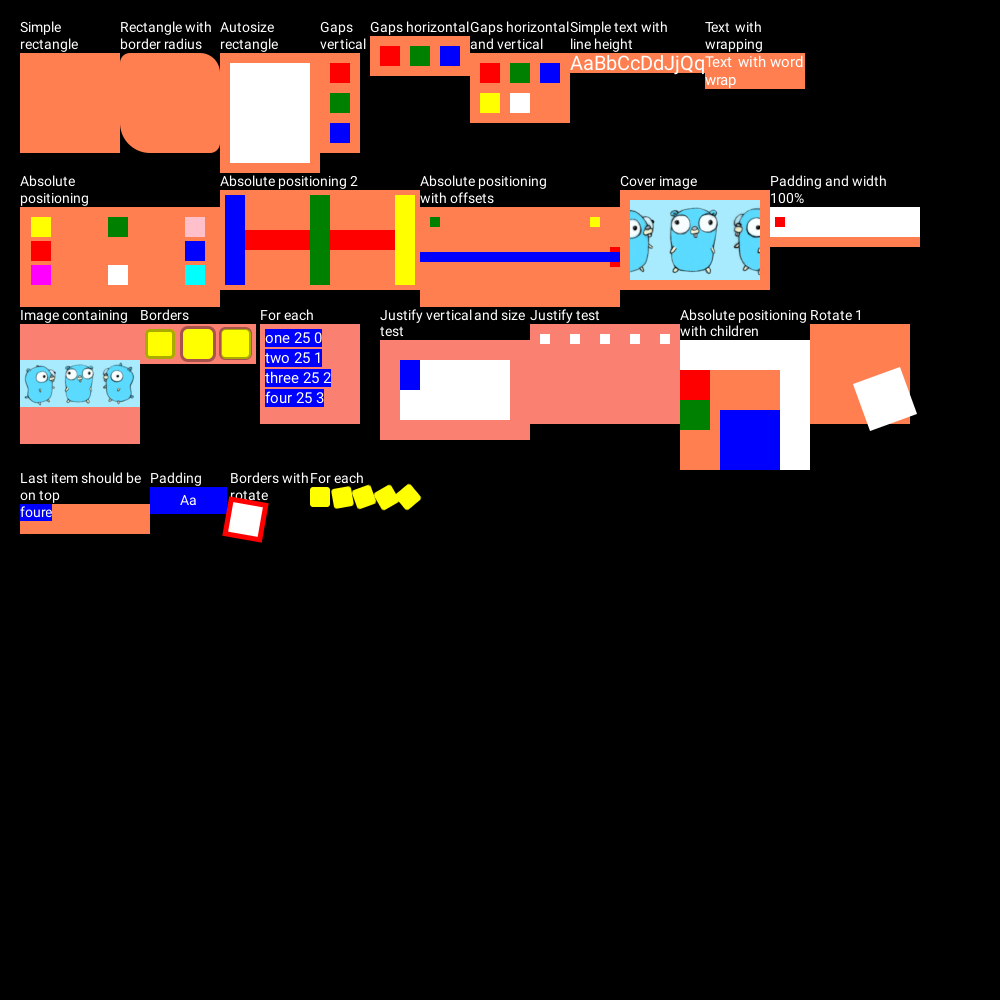
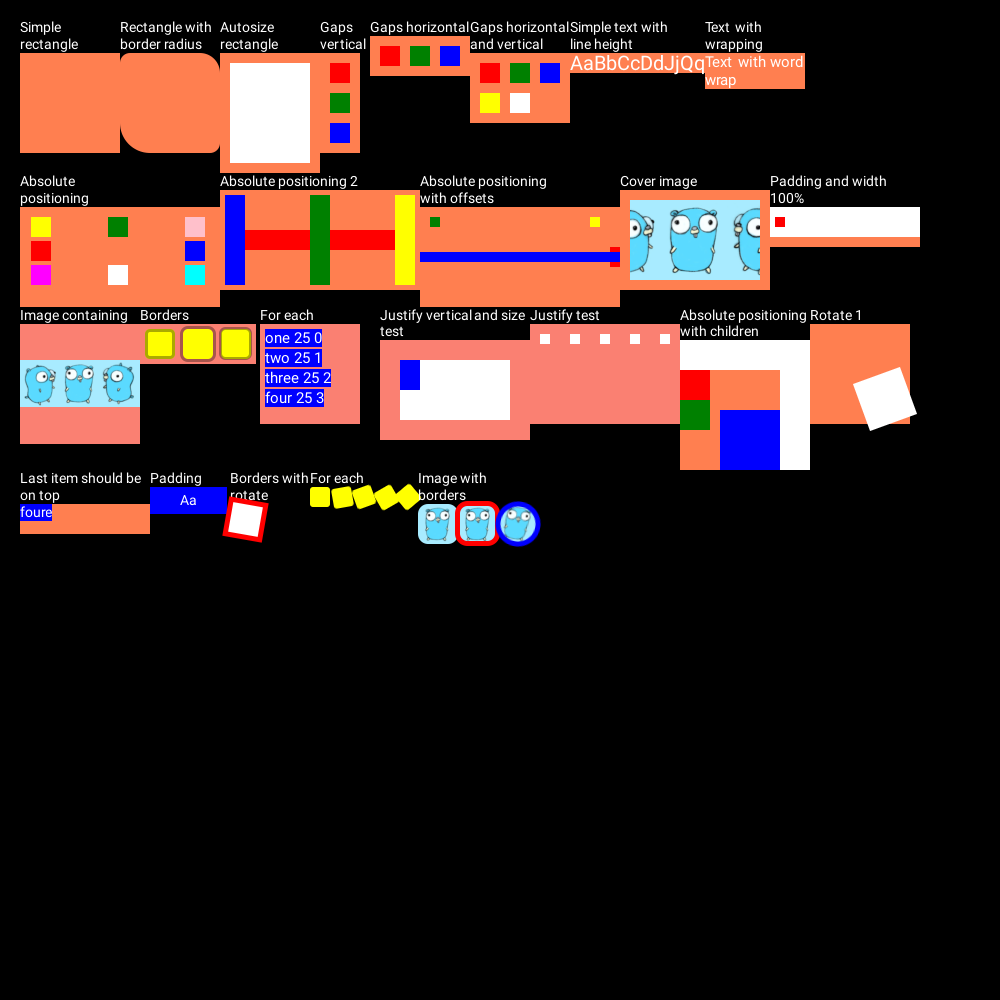
fix round images, and potential race conditions

Changed region(s): [[0.403, 0.465, 0.558, 0.558]]

diff --git a/render/images.go b/render/images.go
@@ -1,17 +1,12 @@
 package render
 
 import (
-	"bytes"
-	"fmt"
 	"github.com/godknowsiamgood/decorender/layout"
-	"github.com/godknowsiamgood/decorender/resources"
 	"github.com/godknowsiamgood/decorender/utils"
 	"golang.org/x/image/draw"
 	"image"
 	"image/color"
 	"math"
-	"strconv"
-	"time"
 )
 
 func scaleAndCropImage(src image.Image, w, h float64, sizeType layout.BkgImageSizeType) *image.RGBA {
@@ -60,89 +55,22 @@ func applyBorderRadius(cache *Cache, src *image.RGBA, radii utils.FourValues) {
 
 	bounds := src.Bounds()
 
-	mask := utils.NewAlphaImageFromPool(bounds.Dx(), bounds.Dy())
-
-	drawRoundedRect(cache, mask, color.Alpha{A: 255}, 0, 0, float64(bounds.Dx()), float64(bounds.Dy()), radii)
-
-	for y := bounds.Min.Y; y < bounds.Max.Y; y++ {
-		for x := bounds.Min.X; x < bounds.Max.X; x++ {
-			offset := src.PixOffset(x, y)
-			alpha := mask.AlphaAt(x, y).A
-			r, g, b, a := blendColors(0, 0, 0, alpha, src.Pix[offset+0], src.Pix[offset+1], src.Pix[offset+2], src.Pix[offset+3])
-			src.Pix[offset+0] = r
-			src.Pix[offset+1] = g
-			src.Pix[offset+2] = b
-			src.Pix[offset+3] = a
+	useRoundedRectMaskImage(cache, float64(bounds.Dx()), float64(bounds.Dy()), radii, func(mask *image.Alpha) {
+		bounds = mask.Bounds()
+		for y := bounds.Min.Y; y < bounds.Max.Y; y++ {
+			for x := bounds.Min.X; x < bounds.Max.X; x++ {
+				maskAlpha := mask.At(x, y).(color.Alpha).A
+				srcIdx := src.PixOffset(x, y)
+				alphaRatio := float64(maskAlpha) / 255
+				for c := 0; c < 3; c++ {
+					src.Pix[srcIdx+c] = uint8(float64(src.Pix[srcIdx+c]) * alphaRatio)
+				}
+				src.Pix[srcIdx+3] = maskAlpha
+			}
 		}
-	}
-
-	utils.ReleaseImage(mask)
-}
-
-func getScaledImage(cache *Cache, fileName string, w, h float64, sizeType layout.BkgImageSizeType) (image.Image, error) {
-	keyBuilder := cache.keysBuildersPool.Get()
-	keyBuilder.WriteString(fileName)
-	keyBuilder.WriteString(strconv.Itoa(int(w)))
-	keyBuilder.WriteString("/")
-	keyBuilder.WriteString(strconv.Itoa(int(h)))
-	keyBuilder.WriteString("/")
-	keyBuilder.WriteString(strconv.Itoa(int(sizeType)))
-	key := keyBuilder.String()
-	cache.keysBuildersPool.Release(keyBuilder)
-
-	if cache.scaledResourceImages.Has(key) {
-		v, _ := cache.scaledResourceImages.Get(key)
-		img, _ := v.(image.Image)
-		if img == nil {
-			return nil, fmt.Errorf("cant get image %v from cache", fileName)
-		}
-		return img, nil
-	} else {
-		imageBytes, err := resources.GetResourceContent(fileName)
-		if err != nil {
-			return nil, fmt.Errorf("cant get image %v: %w", fileName, err)
-		}
-
-		imgReader := bytes.NewReader(imageBytes)
-		srcImg, _, err := image.Decode(imgReader)
-		if err != nil {
-			return nil, fmt.Errorf("cant decode image %v: %w", fileName, err)
-		}
-
-		var scaledAndCroppedImage image.Image
-		if srcImg.Bounds().Dx() == int(w) && srcImg.Bounds().Dy() == int(h) {
-			scaledAndCroppedImage = srcImg
-		} else {
-			scaledAndCroppedImage = scaleAndCropImage(srcImg, w, h, sizeType)
-		}
-		_ = cache.scaledResourceImages.SetWithExpire(key, scaledAndCroppedImage, time.Minute*5)
-
-		return scaledAndCroppedImage, nil
-	}
+	})
 }
 
 func copyImage(dst draw.Image, src image.Image) {
 	draw.Draw(dst, dst.Bounds(), src, image.Point{}, draw.Src)
-}
-
-func blendColors(sr, sg, sb, sa, dr, dg, db, da uint8) (uint8, uint8, uint8, uint8) {
-	srcAlpha := float64(sa) / 255
-	dstAlpha := float64(da) / 255
-
-	finalAlpha := srcAlpha + dstAlpha*(1-srcAlpha)
-	if finalAlpha == 0 {
-		return 0, 0, 0, 0
-	}
-
-	r := (float64(sr)*srcAlpha + float64(dr)*dstAlpha*(1-srcAlpha)) / finalAlpha
-	g := (float64(sg)*srcAlpha + float64(dg)*dstAlpha*(1-srcAlpha)) / finalAlpha
-	b := (float64(sb)*srcAlpha + float64(db)*dstAlpha*(1-srcAlpha)) / finalAlpha
-
-	a := uint8(finalAlpha * 255)
-
-	r *= finalAlpha
-	g *= finalAlpha
-	b *= finalAlpha
-
-	return uint8(r), uint8(g), uint8(b), a
 }

diff --git a/render/cache.go b/render/cache.go
@@ -1,13 +1,16 @@
 package render
 
 import (
+	"bytes"
+	"fmt"
 	"github.com/bluele/gcache"
 	"github.com/godknowsiamgood/decorender/fonts"
+	"github.com/godknowsiamgood/decorender/layout"
+	"github.com/godknowsiamgood/decorender/resources"
 	"github.com/godknowsiamgood/decorender/utils"
 	"github.com/nasa9084/go-builderpool"
 	"golang.org/x/image/font"
 	"image"
-	"strconv"
 	"sync"
 	"time"
 )
@@ -20,46 +23,70 @@ type Cache struct {
 	scaledResourceImages gcache.Cache
 	roundedRectMasks     gcache.Cache
 
+	mx utils.ShardedMutex
+
 	keysBuildersPool *builderpool.BuilderPool
 }
 
-func (c *Cache) addRoundedRectMask(w int, h int, radii utils.FourValues, alpha *image.Alpha) {
-	key := c.roundedRectMaskKey(w, h, radii)
-	_ = c.roundedRectMasks.SetWithExpire(key, alpha, time.Minute*15)
-}
+func (c *Cache) useRoundedMaskImage(w float64, h float64, radii utils.FourValues, onCreate func(mask *image.Alpha), onUse func(mask *image.Alpha)) {
+	key := utils.HashDJB2Num(w, h, radii[0], radii[1], radii[2], radii[3])
 
-func (c *Cache) getRoundedRectMask(w int, h int, radii utils.FourValues) *image.Alpha {
-	key := c.roundedRectMaskKey(w, h, radii)
-	if c.roundedRectMasks.Has(key) {
-		v, _ := c.roundedRectMasks.Get(key)
-		return v.(*image.Alpha)
+	c.mx.LockInt(key)
+	defer c.mx.UnlockInt(key)
+
+	img, _ := c.roundedRectMasks.Get(key)
+	var alphaImg *image.Alpha
+	if img == nil {
+		alphaImg = image.NewAlpha(image.Rect(0, 0, int(w), int(h)))
+		onCreate(alphaImg)
 	} else {
-		return nil
+		alphaImg, _ = img.(*image.Alpha)
 	}
+
+	onUse(alphaImg)
+
+	_ = c.roundedRectMasks.SetWithExpire(key, alphaImg, time.Minute*15)
 }
 
-func (c *Cache) roundedRectMaskKey(w int, h int, radii utils.FourValues) string {
-	sb := c.keysBuildersPool.Get()
-	defer func() {
-		c.keysBuildersPool.Release(sb)
-	}()
+func (c *Cache) useScaledImage(fileName string, w, h float64, sizeType layout.BkgImageSizeType, onUse func(img image.Image)) error {
+	key := utils.HashDJB2(fileName) + utils.HashDJB2Num(w, h, float64(sizeType))
 
-	sb.Reset()
-	sb.WriteString(strconv.Itoa(w))
-	sb.WriteString("-")
-	sb.WriteString(strconv.Itoa(h))
-	sb.WriteString("-")
-	sb.WriteString(strconv.Itoa(int(radii[0] * 100)))
-	sb.WriteString(strconv.Itoa(int(radii[1] * 100)))
-	sb.WriteString(strconv.Itoa(int(radii[2] * 100)))
-	sb.WriteString(strconv.Itoa(int(radii[3] * 100)))
-	return sb.String()
+	c.mx.LockInt(key)
+	defer c.mx.UnlockInt(key)
+
+	v, _ := c.scaledResourceImages.Get(key)
+	img, _ := v.(image.Image)
+
+	if img == nil {
+		imageBytes, err := resources.GetResourceContent(fileName)
+		if err != nil {
+			return fmt.Errorf("cant get image %v: %w", fileName, err)
+		}
+
+		imgReader := bytes.NewReader(imageBytes)
+		srcImg, _, err := image.Decode(imgReader)
+		if err != nil {
+			return fmt.Errorf("cant decode image %v: %w", fileName, err)
+		}
+
+		if srcImg.Bounds().Dx() == int(w) && srcImg.Bounds().Dy() == int(h) {
+			img = srcImg
+		} else {
+			img = scaleAndCropImage(srcImg, w, h, sizeType)
+		}
+	}
+
+	onUse(img)
+
+	_ = c.scaledResourceImages.SetWithExpire(key, img, time.Minute*15)
+
+	return nil
 }
 
 func NewCache() *Cache {
 	return &Cache{
-		scaledResourceImages: gcache.New(10).LRU().Build(),
-		roundedRectMasks:     gcache.New(10).LRU().Build(),
+		scaledResourceImages: gcache.New(30).LRU().Build(),
+		roundedRectMasks:     gcache.New(30).LRU().Build(),
 		keysBuildersPool:     builderpool.New(),
 	}
 }

diff --git a/render/rectangles.go b/render/rectangles.go
@@ -94,15 +94,12 @@ func drawRoundedBorder(cache *Cache, dst *image.RGBA, x, y, w, h float64, radii 
 	utils.ReleaseImage(innerImage)
 }
 
-func drawRoundedRect(cache *Cache, dst draw.Image, c color.Color, x, y, w, h float64, radii utils.FourValues) {
-	if !radii.HasValues() {
-		draw.Draw(dst, image.Rect(int(x), int(y), int(x+w), int(y+h)), image.NewUniform(c), image.Point{}, draw.Over)
-		return
-	}
+func useRoundedRectMaskImage(cache *Cache, w float64, h float64, radii utils.FourValues, onUse func(mask *image.Alpha)) {
+	cache.useRoundedMaskImage(w, h, radii, func(mask *image.Alpha) {
+		for i := range radii {
+			radii[i] = math.Min(radii[i], math.Min(w/2, h/2))
+		}
 
-	mask := cache.getRoundedRectMask(int(w), int(h), radii)
-
-	if mask == nil {
 		x32, y32, w32, h32 := float32(0.0), float32(0.0), float32(w), float32(h)
 
 		r := rasterizerPool.Get().(*vector.Rasterizer)
@@ -146,16 +143,22 @@ func drawRoundedRect(cache *Cache, dst draw.Image, c color.Color, x, y, w, h flo
 
 		r.ClosePath()
 
-		mask = image.NewAlpha(image.Rect(0, 0, int(w), int(h)))
 		r.Draw(mask, mask.Bounds(), image.NewUniform(color.Alpha{A: 255}), image.Point{})
 
 		rasterizerPool.Put(r)
+	}, onUse)
+}
+
+func drawRoundedRect(cache *Cache, dst draw.Image, c color.Color, x, y, w, h float64, radii utils.FourValues) {
+	if !radii.HasValues() { // Short path for drawing simple rectangle
+		draw.Draw(dst, image.Rect(int(x), int(y), int(x+w), int(y+h)), image.NewUniform(c), image.Point{}, draw.Over)
+		return
 	}
 
-	bounds := image.Rect(int(x), int(y), int(x+w), int(y+h))
-	draw.DrawMask(dst, bounds, &image.Uniform{C: c}, image.Point{}, mask, image.Point{}, draw.Over)
-
-	cache.addRoundedRectMask(int(w), int(h), radii, mask)
+	useRoundedRectMaskImage(cache, w, h, radii, func(mask *image.Alpha) {
+		bounds := image.Rect(int(x), int(y), int(x+w), int(y+h))
+		draw.DrawMask(dst, bounds, &image.Uniform{C: c}, image.Point{}, mask, image.Point{}, draw.Over)
+	})
 }
 
 func drawEllipticalArc(x, y, rx, ry, angle1, angle2 float64, path *vector.Rasterizer) {

diff --git a/render/render.go b/render/render.go
@@ -160,20 +160,20 @@ func drawNode(cache *Cache, dst *image.RGBA, n *layout.Node, left float64, top f
 	}
 
 	if n.Image != "" {
-		scaledAndCroppedImage, err := getScaledImage(cache, n.Image, n.Size.W, n.Size.H, n.Props.BkgImageSize)
+		err := cache.useScaledImage(n.Image, n.Size.W, n.Size.H, n.Props.BkgImageSize, func(scaledAndCroppedImage image.Image) {
+			bounds := scaledAndCroppedImage.Bounds()
+			if n.Props.BorderRadius.HasValues() {
+				utils.UseTempImage(bounds, func(tempImage *image.RGBA) {
+					copyImage(tempImage, scaledAndCroppedImage)
+					applyBorderRadius(cache, tempImage, n.Props.BorderRadius)
+					draw.Draw(dst, image.Rect(int(left), int(top), int(left)+bounds.Dx(), int(top)+bounds.Dy()), tempImage, image.Point{}, draw.Over)
+				})
+			} else {
+				draw.Draw(dst, image.Rect(int(left), int(top), int(left)+bounds.Dx(), int(top)+bounds.Dy()), scaledAndCroppedImage, image.Point{}, draw.Over)
+			}
+		})
 		if err != nil {
 			return fmt.Errorf("cant draw node image (id: %v): %w", n.Id, err)
-		}
-
-		bounds := scaledAndCroppedImage.Bounds()
-		if n.Props.BorderRadius.HasValues() {
-			utils.UseTempImage(bounds.Dx(), bounds.Dy(), func(tempImage *image.RGBA) {
-				copyImage(tempImage, scaledAndCroppedImage)
-				applyBorderRadius(cache, tempImage, n.Props.BorderRadius)
-				draw.Draw(dst, image.Rect(int(left), int(top), int(left)+bounds.Dx(), int(top)+bounds.Dy()), tempImage, image.Point{}, draw.Over)
-			})
-		} else {
-			draw.Draw(dst, image.Rect(int(left), int(top), int(left)+bounds.Dx(), int(top)+bounds.Dy()), scaledAndCroppedImage, image.Point{}, draw.Over)
 		}
 	}
 

diff --git a/utils/sharded_mutex.go b/utils/sharded_mutex.go
@@ -1,0 +1,41 @@
+package utils
+
+import (
+	"sync"
+)
+
+const shardedMutexCount = 64
+
+type ShardedMutex [shardedMutexCount]sync.Mutex
+
+func (sm *ShardedMutex) Lock(key string) {
+	(*sm)[HashDJB2(key)%shardedMutexCount].Lock()
+}
+
+func (sm *ShardedMutex) LockInt(v int) {
+	(*sm)[v%shardedMutexCount].Lock()
+}
+
+func (sm *ShardedMutex) Unlock(key string) {
+	(*sm)[HashDJB2(key)%shardedMutexCount].Unlock()
+}
+
+func (sm *ShardedMutex) UnlockInt(v int) {
+	(*sm)[v%shardedMutexCount].Unlock()
+}
+
+func HashDJB2(s string) int {
+	var hash = 5381
+	for i := 0; i < len(s); i++ {
+		hash = ((hash << 5) + hash) + int(s[i])
+	}
+	return hash
+}
+
+func HashDJB2Num[T int | float64](v ...T) int {
+	var hash = 5381
+	for i := 0; i < len(v); i++ {
+		hash = ((hash << 5) + hash) + int(v[i])
+	}
+	return hash
+}

diff --git a/utils/images_pool.go b/utils/images_pool.go
@@ -68,8 +68,8 @@ func ReleaseImage(img image.Image) {
 	}
 }
 
-func UseTempImage(w, h int, cb func(img *image.RGBA)) {
-	img := NewRGBAImageFromPool(w, h)
+func UseTempImage(bounds image.Rectangle, cb func(img *image.RGBA)) {
+	img := NewRGBAImageFromPool(bounds.Dx(), bounds.Dy())
 	cb(img)
 	ReleaseImage(img)
 }
